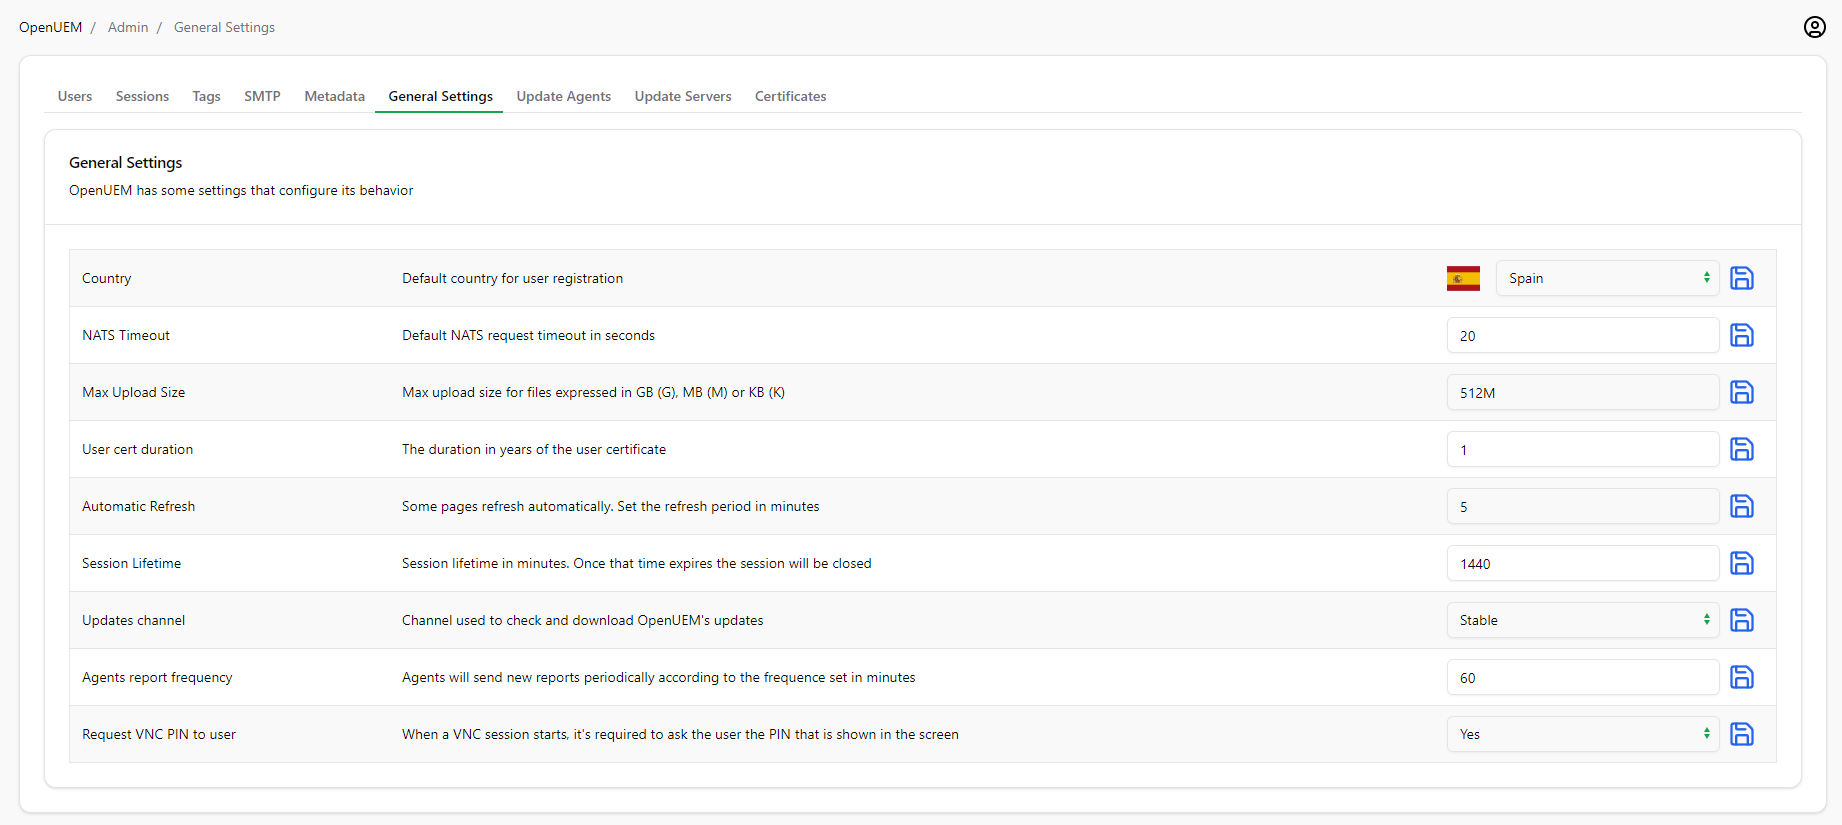
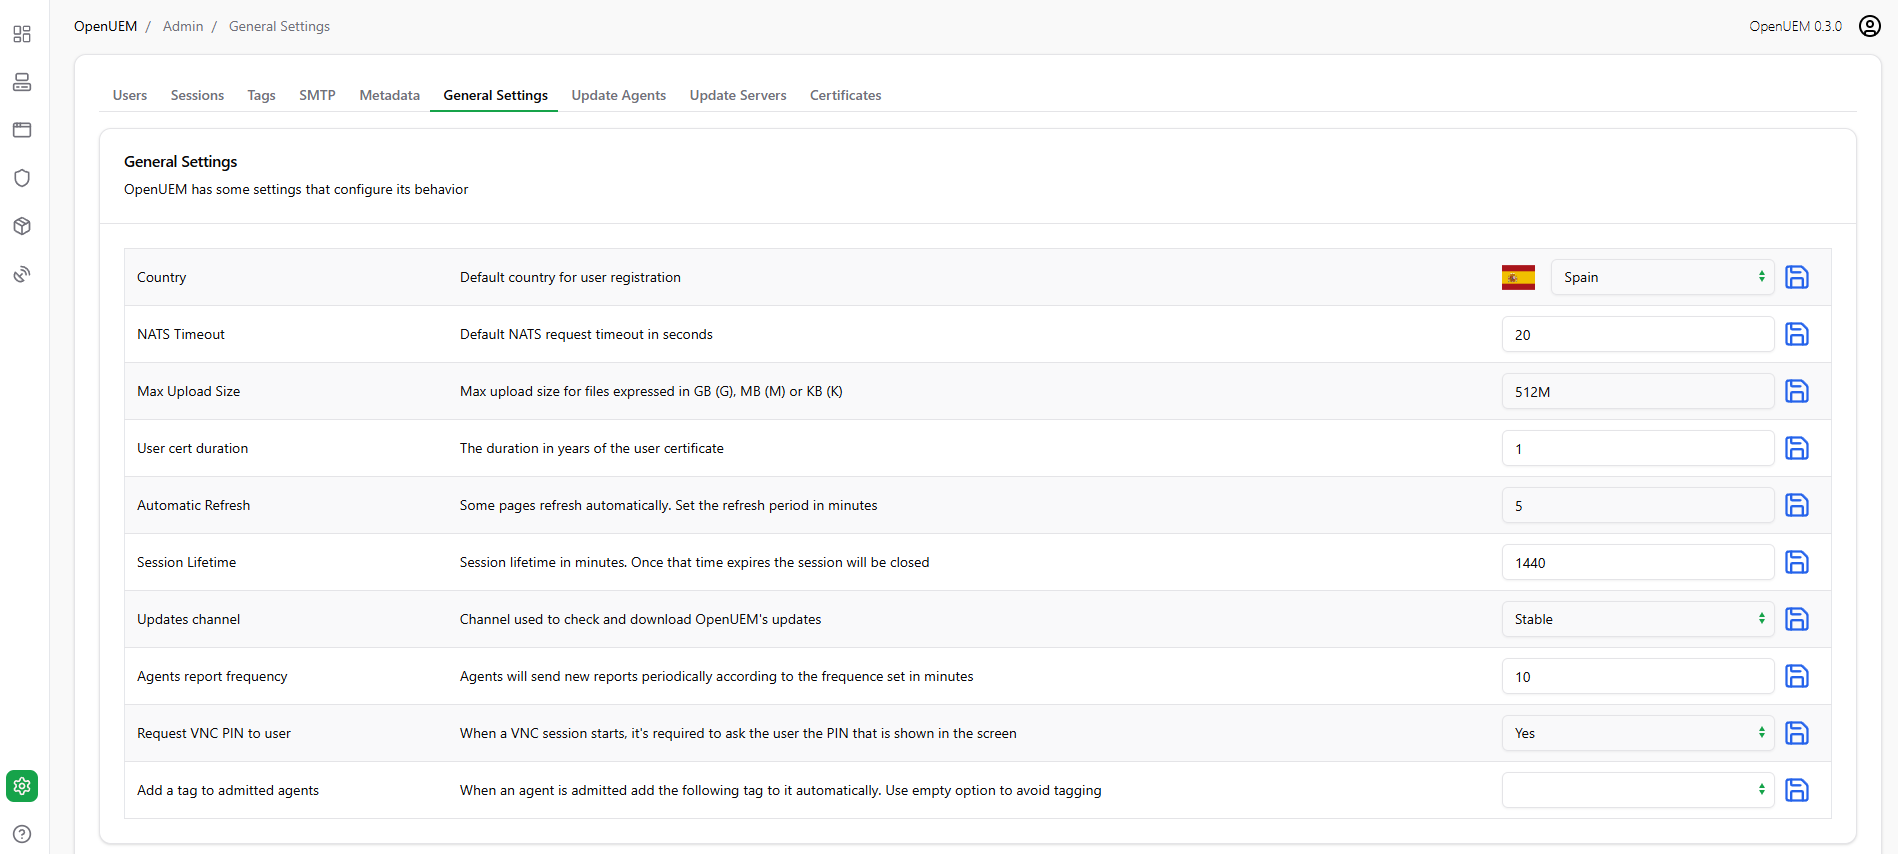
feat: new 0.3.0 server version

diff --git a/docs/05-Administration/06-general-settings.md b/docs/05-Administration/06-general-settings.md
@@ -24,14 +24,15 @@ OpenUEM has many settings that you, as an administrator, can tweak. Just enter t
 
 Right now, here’s the table of settings and the default value
 
-| Setting                 | Description                                                                                  | Default value |
-| ----------------------- | -------------------------------------------------------------------------------------------- | ------------- |
-| Country                 | Default country for user registration                                                        | ES            |
-| NATS Timeout            | Default NATS request timeout in seconds                                                      | 20            |
-| Max Upload Size         | Max upload size for files expressed in GB (G), MB (M) or KB (K)                              | 512M          |
-| User cert duration      | The duration in years of the user certificate                                                | 1             |
-| Automatic Refresh       | Some pages refresh automatically. Set the refresh period in minutes                          | 5             |
-| Session Lifetime        | Session lifetime in minutes. Once that time expires the session will be closed               | 1440          |
-| Updates channel         | Channel used to check and download OpenUEM's updates                                         | Stable        |
-| Agents report frequency | Agents will send new reports periodically according to the frequence set in minutes          | 60            |
-| Request VNC PIN to user | When a VNC session starts, it's required to ask the user the PIN that is shown in the screen | true          |
+| Setting                      | Description                                                                                  | Default value |
+| ---------------------------- | -------------------------------------------------------------------------------------------- | ------------- |
+| Country                      | Default country for user registration                                                        | ES            |
+| NATS Timeout                 | Default NATS request timeout in seconds                                                      | 20            |
+| Max Upload Size              | Max upload size for files expressed in GB (G), MB (M) or KB (K)                              | 512M          |
+| User cert duration           | The duration in years of the user certificate                                                | 1             |
+| Automatic Refresh            | Some pages refresh automatically. Set the refresh period in minutes                          | 5             |
+| Session Lifetime             | Session lifetime in minutes. Once that time expires the session will be closed               | 1440          |
+| Updates channel              | Channel used to check and download OpenUEM's updates                                         | Stable        |
+| Agents report frequency      | Agents will send new reports periodically according to the frequence set in minutes          | 60            |
+| Request VNC PIN to user      | When a VNC session starts, it's required to ask the user the PIN that is shown in the screen | true          |
+| Add a tag to admitted agents | When an agent is admitted add the following tag to it automatically (🎯 Version 0.3.0)       | no tag        |

diff --git a/docs/06-Downloads/01-windows.md b/docs/06-Downloads/01-windows.md
@@ -36,6 +36,7 @@ OpenUEM uses semver versions X.Y.Z. When you download an agent choose the latest
 
 | Type   | Version | Arch  | Link                                                                            | Checksum                                                                 |
 | ------ | ------- | ----- | ------------------------------------------------------------------------------- | ------------------------------------------------------------------------ |
+| Server | 0.3.0   | amd64 | [Download](https://downloads.openuem.eu/servers/openuem-server-setup-0.2.0.exe) | SHA256: D607EC1E7A5C4F3F46A4393E0FCB3D9A5B81711971CE11F732749CE0A8CFF4C2 |
 | Server | 0.2.1   | amd64 | [Download](https://downloads.openuem.eu/servers/openuem-server-setup-0.2.0.exe) | SHA256: 332B9FAEC0A6282AE4028D341483E7B2F626E094EE94E0762A07E22D537D28D1 |
 | Server | 0.2.0   | amd64 | [Download](https://downloads.openuem.eu/servers/openuem-server-setup-0.2.0.exe) | SHA256: DDF7F86DFF8AF99567C2A257B04BAC571EE1F00AF4C04F4B16C125E5EE75F619 |
 | Server | 0.1.1   | amd64 | [Download](https://downloads.openuem.eu/servers/openuem-server-setup-0.1.1.exe) | SHA256: 834F0927635D43B0BDCB203FB493A87043550E2A0BDA6D0919820DD39C925F95 |

diff --git a/docs/08-Release Notes/02-servers.md b/docs/08-Release Notes/02-servers.md
@@ -16,6 +16,15 @@ keywords:
 
 # Server
 
+## 0.3.0 (27/02/2025)
+
+- Feat: add version info and icon if new release. [Issue](https://github.com/open-uem/openuem-console/issues/22)
+- Feat: identify which agents are reporting from a remote location. [Issue](https://github.com/open-uem/openuem-console/issues/25)
+- Feat: add a new general setting to add a tag for recently admitted agents. [Issue](https://github.com/open-uem/openuem-console/issues/19)
+- Feat: add filtering capabilities for endpoint software table. [Issue](https://github.com/open-uem/openuem-console/issues/32)
+- Fix: some issues while filtering and paginating (method not allowed messages or asking to repeat recent action). [Issue](https://github.com/open-uem/openuem-console/issues/26)
+- Security: update esbuild (3rd party lib) due to security bug. [Issue](https://github.com/open-uem/openuem-console/issues/35)
+
 ## 0.2.1 (16/02/2025)
 
 - Fix: console could not find the WinGet database (index.db) in Docker when searching for WinGet packages

diff --git a/docs/04-Console/06-computers.md b/docs/04-Console/06-computers.md
@@ -39,6 +39,12 @@ By clicking on the three dots button, you can show a menu with possible actions
 
 If you click on the hostname or use the view action, you’ll visit the computer’s details.
 
+:::tip
+OpenUEM (🎯 0.3.0) uses DNS and the reported active IP address to identify endpoints that are not located in our LAN, assuming that the associated endpoints are used by remote workers.
+
+OpenUEM uses a plane icon to indicate that the agent is in a remote location. This is important because remote file browsing, remote assistance and WOL (Wake On Lan) are currently not possible as those endpoints are not reachable from the LAN.
+:::
+
 ## 2. Computer's details
 
 The information reported by an agent is distributed in several tabs so it’s easier for you to browse the information. Let’s see what is shown and what you can do.

diff --git a/docs/02-Installation/01-Server/02-windows.md b/docs/02-Installation/01-Server/02-windows.md
@@ -29,11 +29,11 @@ Visit the [Downloads section](/docs/06-Downloads/01-windows.md) and choose the d
 Download your preferred version and note that you can check if the checksum matches using Powershell's Get-FileHash:
 
 ```(powershell)
-Get-FileHash openuem-server-setup-0.2.1.exe
+Get-FileHash openuem-server-setup-0.3.0.exe
 
 Algorithm       Hash                                                                   Path
 ---------       ----                                                                   ----
-SHA256          332B9FAEC0A6282AE4028D341483E7B2F626E094EE94E0762A07E22D537D28D1       C:\Users\doncicuto\Downloads\openuem....
+SHA256          D607EC1E7A5C4F3F46A4393E0FCB3D9A5B81711971CE11F732749CE0A8CFF4C2       C:\Users\doncicuto\Downloads\openuem....
 ```
 
 ## 2. Install OpenUEM server

diff --git a/docs/04-Console/05-agents.md b/docs/04-Console/05-agents.md
@@ -81,3 +81,11 @@ You can generate a PDF report that lists your agents and preserves your filters 
 Here’s a sample of the generated report.
 
 ![Agents report sample](/img/console/agents_report_sample.png)
+
+## 4. Remote agents (🎯 0.3.0)
+
+OpenUEM uses DNS and the reported active IP address to identify agents that are not located in our LAN, assuming that the associated endpoints are used by remote workers.
+
+OpenUEM uses a plane icon to indicate that the agent is in a remote location. This is important because remote file browsing, remote assistance and WOL (Wake On Lan) are currently not possible as those endpoints are not reachable from the LAN.
+
+![Agents remote location](/img/console/remote_location.png)

diff --git a/docs/04-Console/11-version.md b/docs/04-Console/11-version.md
@@ -1,0 +1,25 @@
+---
+title: 🎯 Version info
+description: OpenUEM version information
+keywords:
+  [
+    IT assets,
+    inventory,
+    openuem,
+    uem,
+    rmm,
+    console,
+    version,
+    update available,
+    unified endpoint manager,
+    remote monitoring and management,
+  ]
+---
+
+# Version information
+
+OpenUEM shows the current console version (🎯 new feature in 0.3.0) in the header and an icon if a new release is available so you can update it when you wish.
+
+![New version](/img/console/new_version.png)
+
+You can update your server’s version visiting [Admin -> Update Servers](/docs/05-Administration/08-update-servers.md)
